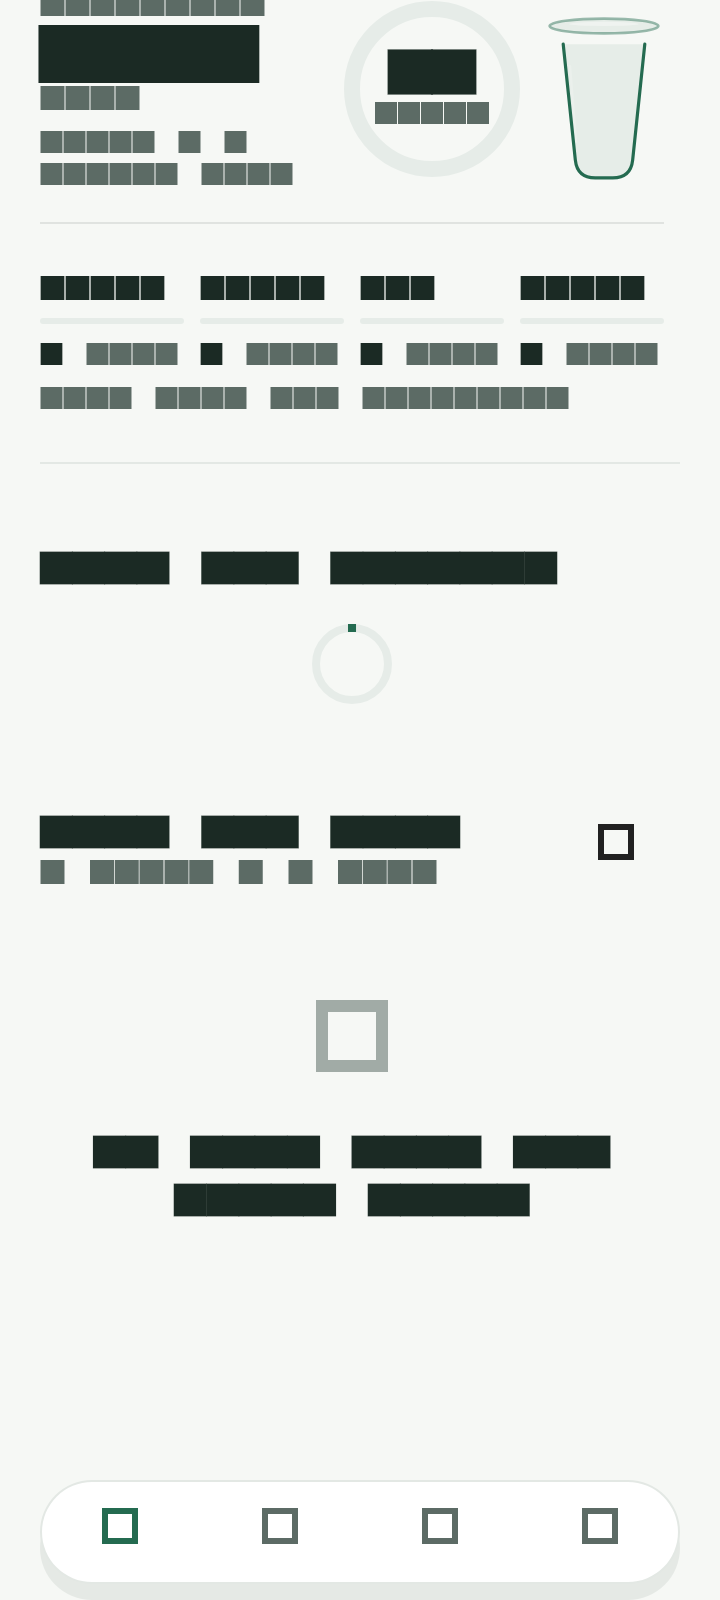
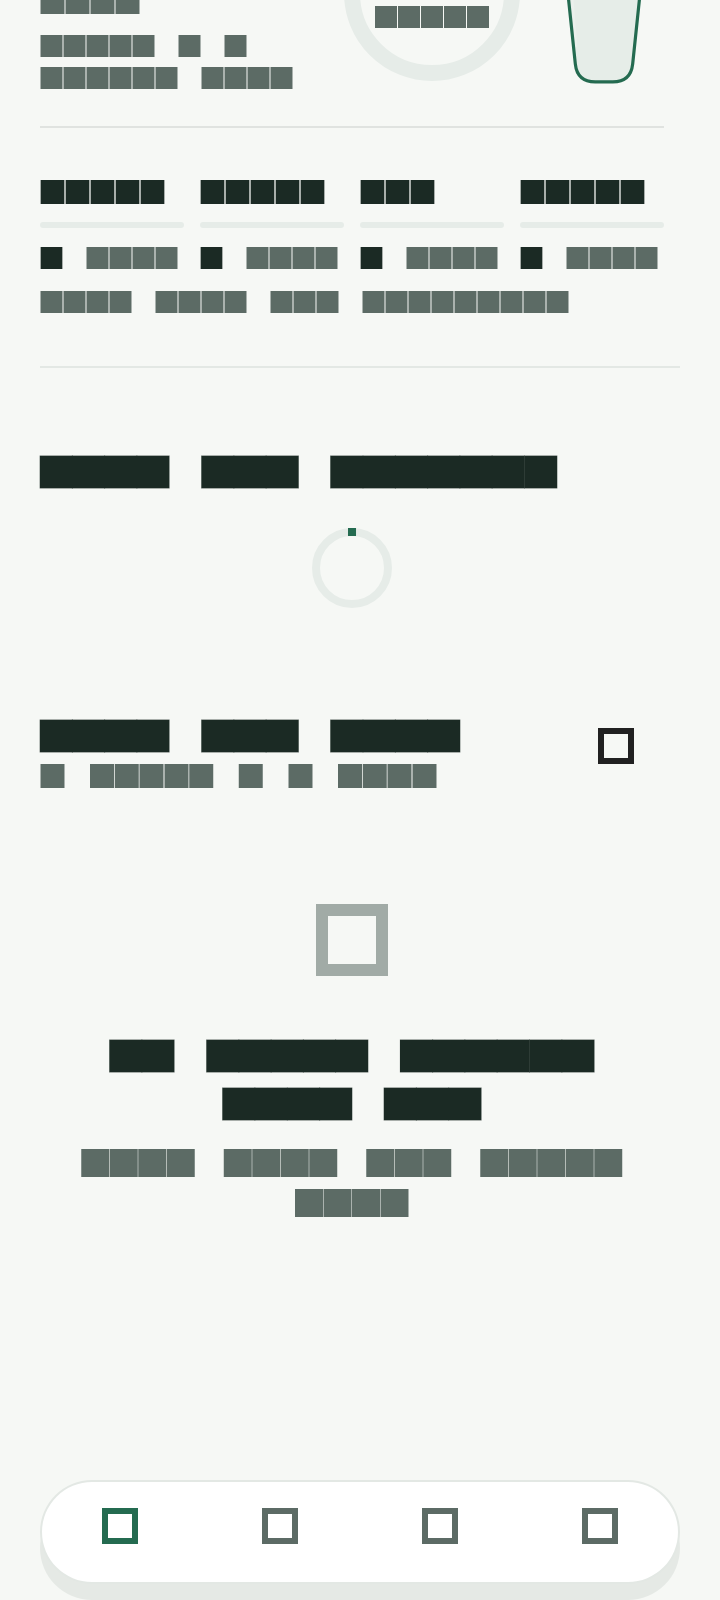
ui: past-day meal empty state matches workout; sex as a picker field
1. a past day with no meals now shows the same SportEmptyState shape as the
   workout section — icon + title (当日无饮食记录) + small "过去日期只读" line
2. the sex selector (profile edit + onboarding) is an AppDropdown row now:
   label left, value right, like every other field — no more segmented toggle

analyze clean; full suite green (158); goldens regenerated.

Claude-Session: https://claude.ai/code/session_01CWB8cLUtUBP9ZBJ1jWMsCM

diff --git a/lib/ui/profile/profile_edit_page.dart b/lib/ui/profile/profile_edit_page.dart
@@ -7,7 +7,6 @@ import '../../domain/models.dart';
 import '../../l10n/app_localizations_ext.dart';
 import '../../providers/app_providers.dart';
 import '../theme/app_theme.dart';
-import '../theme/sport_chrome.dart';
 import '../widgets/form_options.dart';
 
 class ProfileEditPage extends ConsumerStatefulWidget {
@@ -191,20 +190,13 @@ class _ProfileEditPageState extends ConsumerState<ProfileEditPage> {
               title: l10n.profileSectionBasics,
               hint: l10n.profileSectionBasicsHint,
             ),
-            Text(l10n.sex, style: Theme.of(context).textTheme.fieldLabel),
-            const SizedBox(height: 4),
-            SportTabs<Sex>(
-              items: {Sex.male: l10n.male, Sex.female: l10n.female},
-              selected: _sex,
-              onSelected: (v) => _edit(() => _sex = v),
-            ),
-            const SizedBox(height: 6),
-            Padding(
-              padding: const EdgeInsets.symmetric(horizontal: 4),
-              child: Text(
-                l10n.profileFieldSexHint,
-                style: Theme.of(context).textTheme.meta,
-              ),
+            AppDropdown<Sex>(
+              label: l10n.sex,
+              value: _sex,
+              items: Sex.values,
+              itemLabel: (s) => s.label(l10n),
+              helperText: l10n.profileFieldSexHint,
+              onChanged: (v) => _edit(() => _sex = v),
             ),
             const SizedBox(height: AppSpacing.field),
             AppDropdown<int>(

diff --git a/lib/ui/onboarding/onboarding_page.dart b/lib/ui/onboarding/onboarding_page.dart
@@ -7,7 +7,6 @@ import '../../domain/models.dart';
 import '../../l10n/app_localizations_ext.dart';
 import '../../providers/app_providers.dart';
 import '../theme/app_theme.dart';
-import '../theme/sport_chrome.dart';
 import '../widgets/form_options.dart';
 
 class OnboardingPage extends ConsumerStatefulWidget {
@@ -201,14 +200,14 @@ class _OnboardingPageState extends ConsumerState<OnboardingPage> {
                     style: theme.textTheme.headlineSmall,
                   ),
                   const SizedBox(height: AppSpacing.section),
-                  Text(l10n.sex, style: theme.textTheme.fieldLabel),
-                  const SizedBox(height: 4),
-                  SportTabs<Sex>(
-                    items: {Sex.male: l10n.male, Sex.female: l10n.female},
-                    selected: _sex,
-                    onSelected: (v) => setState(() => _sex = v),
+                  AppDropdown<Sex>(
+                    label: l10n.sex,
+                    value: _sex,
+                    items: Sex.values,
+                    itemLabel: (s) => s.label(l10n),
+                    onChanged: (v) => setState(() => _sex = v),
                   ),
-                  const SizedBox(height: AppSpacing.section),
+                  const SizedBox(height: AppSpacing.field),
                   AppDropdown<int>(
                     label: l10n.age,
                     value: FormOptions.snapInt(FormOptions.ages(), _age),

diff --git a/lib/ui/today/today_page.dart b/lib/ui/today/today_page.dart
@@ -469,8 +469,10 @@ class _TodayPageState extends ConsumerState<TodayPage> {
                             icon: Icons.restaurant_outlined,
                             title: isSelectedToday
                                 ? l10n.noMealsTitle
-                                : l10n.emptyMealsThatDay,
-                            message: isSelectedToday ? l10n.noMealsHint : null,
+                                : l10n.noMealsThatDay,
+                            message: isSelectedToday
+                                ? l10n.noMealsHint
+                                : l10n.pastDayReadOnly,
                           )
                         : Column(
                             crossAxisAlignment: CrossAxisAlignment.start,

diff --git a/lib/l10n/app_localizations.dart b/lib/l10n/app_localizations.dart
@@ -914,6 +914,12 @@ abstract class AppLocalizations {
   /// **'No logs that day (view only)'**
   String get emptyMealsThatDay;
 
+  /// No description provided for @noMealsThatDay.
+  ///
+  /// In en, this message translates to:
+  /// **'No meals logged that day'**
+  String get noMealsThatDay;
+
   /// No description provided for @emptyWeightLogs.
   ///
   /// In en, this message translates to:

diff --git a/lib/ui/profile/profile_page.dart b/lib/ui/profile/profile_page.dart
@@ -103,7 +103,8 @@ class _ProfilePageState extends ConsumerState<ProfilePage> {
         ],
       ),
     );
-    controller.dispose();
+    // Dialog route / IME may still hold dependents for a frame after pop.
+    WidgetsBinding.instance.addPostFrameCallback((_) => controller.dispose());
     if (name == null) return;
     await ref.read(userNameProvider.notifier).set(name);
   }

diff --git a/lib/l10n/app_localizations_zh.dart b/lib/l10n/app_localizations_zh.dart
@@ -417,6 +417,9 @@ class AppLocalizationsZh extends AppLocalizations {
   String get emptyMealsThatDay => '当日无记录（仅可查看）';
 
   @override
+  String get noMealsThatDay => '当日无饮食记录';
+
+  @override
   String get emptyWeightLogs => '还没有记录，点加号添加';
 
   @override

diff --git a/lib/l10n/app_localizations_en.dart b/lib/l10n/app_localizations_en.dart
@@ -417,6 +417,9 @@ class AppLocalizationsEn extends AppLocalizations {
   String get emptyMealsThatDay => 'No logs that day (view only)';
 
   @override
+  String get noMealsThatDay => 'No meals logged that day';
+
+  @override
   String get emptyWeightLogs => 'No logs yet — tap + to add';
 
   @override
